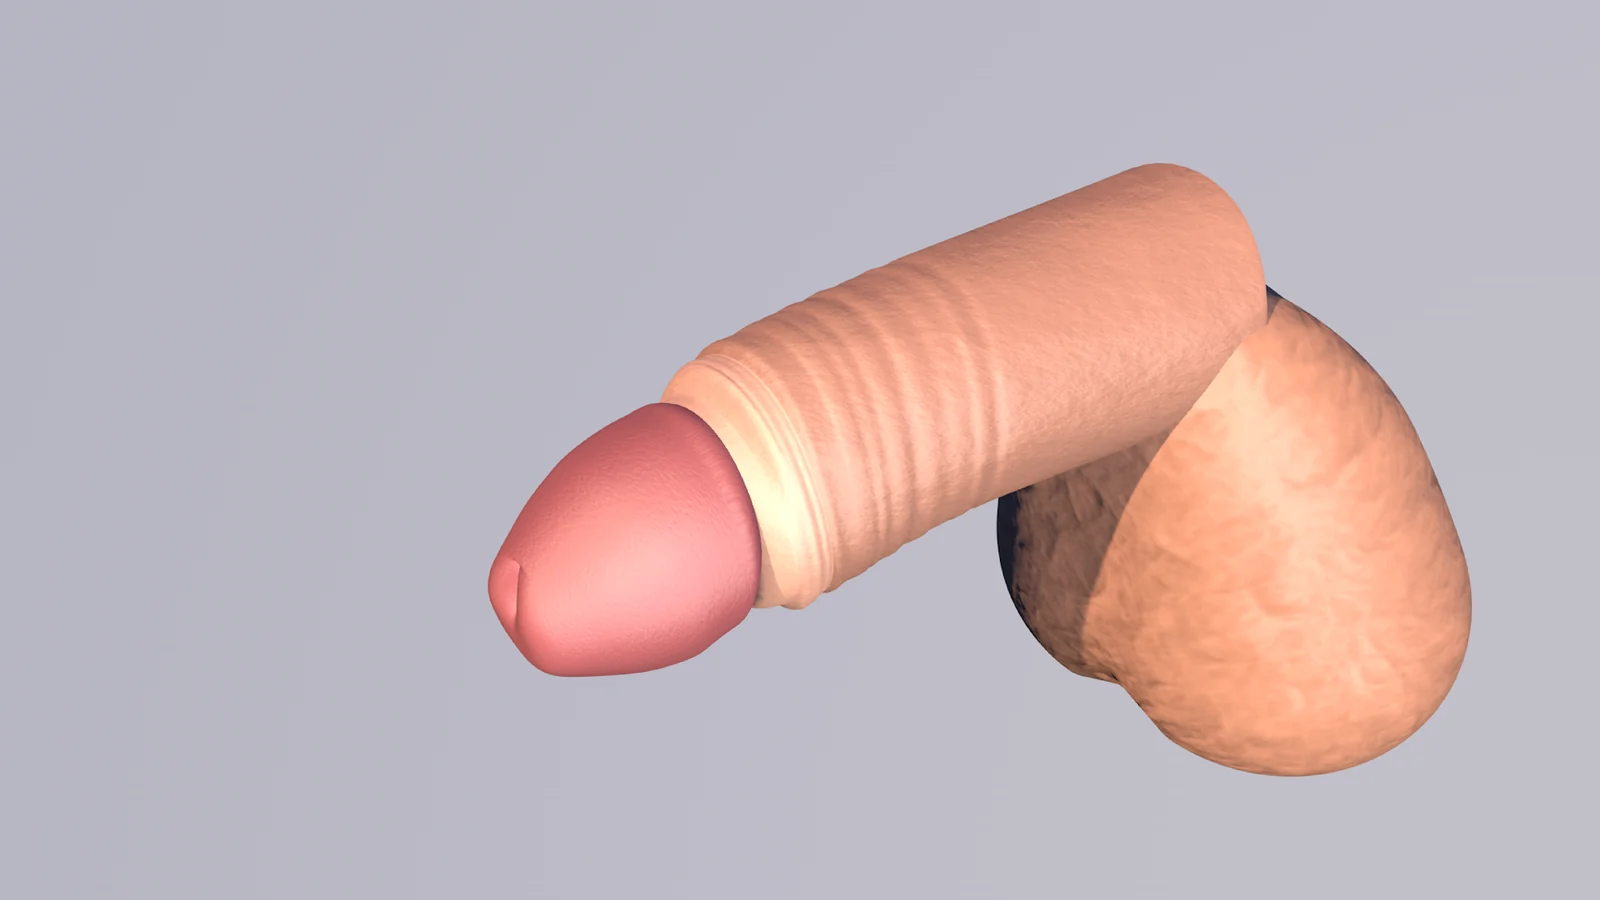
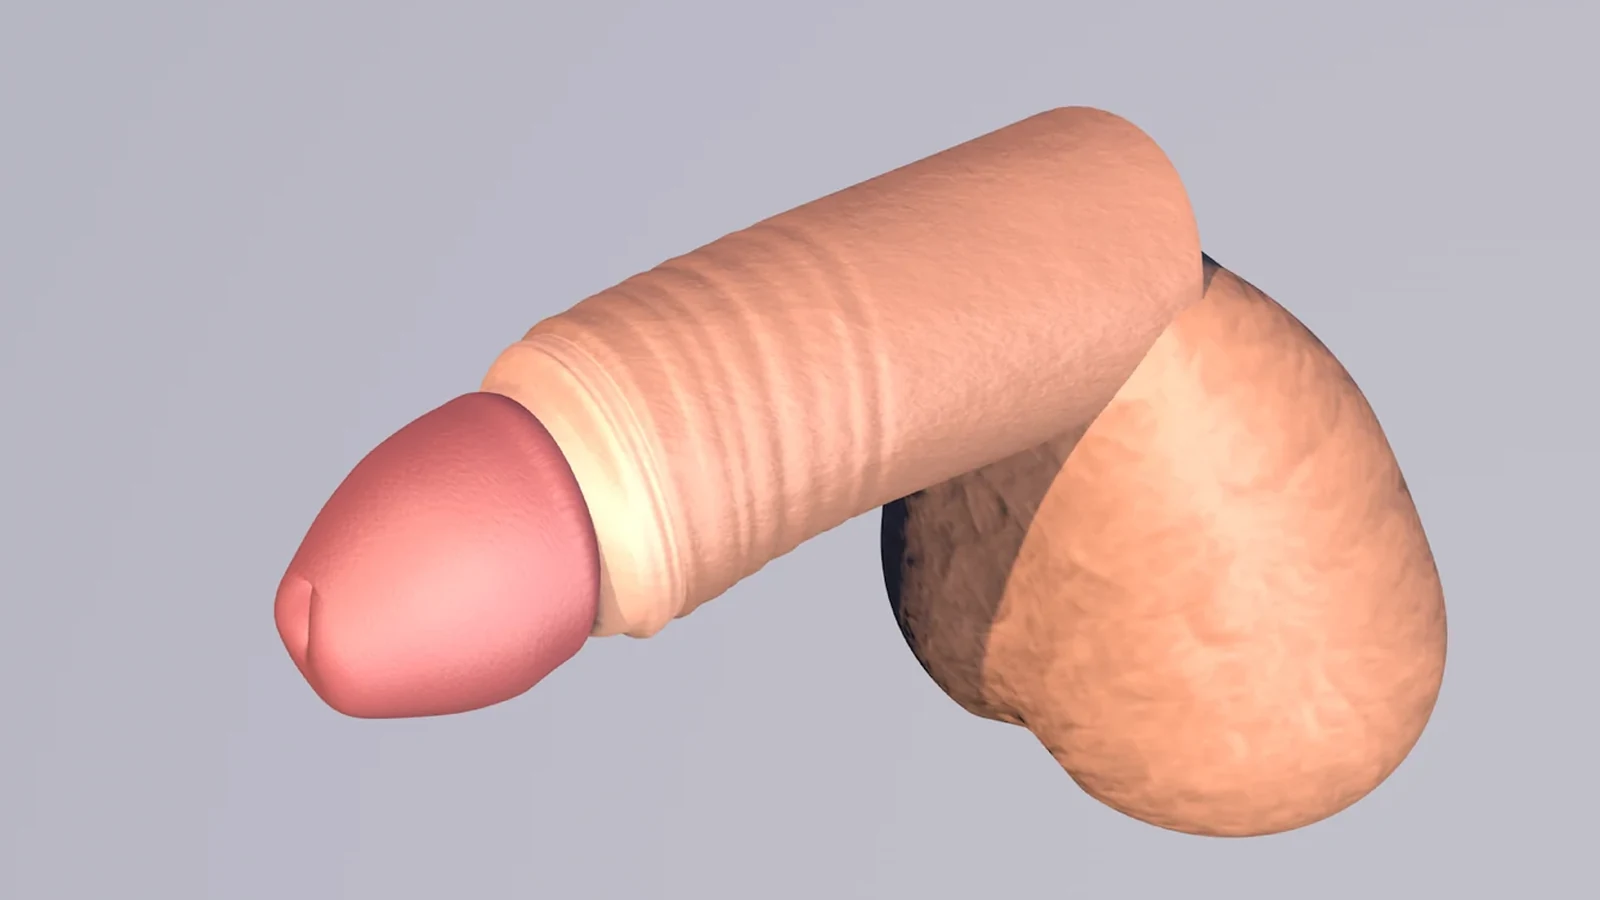
Improve readability and fascia preservation visual

Changed region(s): [[0.1562, 0.0933, 0.9375, 0.9333]]

diff --git a/app/globals.css b/app/globals.css
@@ -530,6 +530,7 @@ img {
 
 .design-medical-image {
   object-fit: cover;
+  object-position: 50% 50%;
 }
 
 .design-code {
@@ -1806,5 +1807,275 @@ footer {
   *::before,
   *::after {
     transition-duration: 0.001ms !important;
+  }
+}
+
+/* Readability pass */
+body {
+  font-size: 17px;
+  line-height: 1.7;
+}
+
+.desktop-nav,
+.header-cta {
+  font-size: 15px;
+}
+
+.hero-kicker,
+.eyebrow {
+  font-size: 13px;
+}
+
+.hero-lead {
+  font-size: 20px;
+}
+
+.button {
+  font-size: 16px;
+}
+
+.privacy-note {
+  font-size: 14px;
+}
+
+.proof-grid span {
+  font-size: 15px;
+}
+
+.facts-grid span,
+.visit-details span {
+  font-size: 12px;
+}
+
+.facts-grid strong {
+  font-size: 23px;
+}
+
+.facts-grid p {
+  font-size: 14px;
+}
+
+.intro-mark small {
+  font-size: 11px;
+}
+
+.intro-copy p {
+  font-size: 16px;
+}
+
+.indication-grid article > span {
+  font-size: 13px;
+}
+
+.indication-grid h3 {
+  font-size: 22px;
+}
+
+.indication-grid p,
+.medical-alert {
+  font-size: 15px;
+}
+
+.section-description {
+  font-size: 18px;
+}
+
+.design-basics span {
+  font-size: 11px;
+}
+
+.design-basics strong {
+  font-size: 19px;
+}
+
+.design-basics p {
+  font-size: 14px;
+}
+
+.design-code {
+  font-size: 12px;
+}
+
+.design-card h3 {
+  font-size: 26px;
+}
+
+.design-card .design-label {
+  font-size: 14px;
+}
+
+.design-card .design-summary {
+  font-size: 15px;
+}
+
+.design-card .recommend-badge {
+  font-size: 10px;
+}
+
+.design-details dt {
+  font-size: 13px;
+}
+
+.design-details dd {
+  font-size: 14px;
+}
+
+.design-note strong {
+  font-size: 12px;
+}
+
+.design-note p {
+  font-size: 14px;
+  line-height: 1.7;
+}
+
+.decision-card h3 {
+  font-size: 22px;
+}
+
+.decision-card p {
+  font-size: 16px;
+}
+
+.preserve-points span {
+  font-size: 13px;
+}
+
+.preserve-points p {
+  font-size: 16px;
+}
+
+.anatomy-badge,
+.treatment-label,
+.anatomy-legend span {
+  font-size: 12px;
+}
+
+.anatomy-copy h3 {
+  font-size: 23px;
+}
+
+.anatomy-copy p {
+  font-size: 15px;
+}
+
+.method-grid span {
+  font-size: 13px;
+}
+
+.method-grid h3,
+.step-copy h3 {
+  font-size: 19px;
+}
+
+.method-grid p {
+  font-size: 14px;
+}
+
+.method-note {
+  font-size: 13px;
+}
+
+.step-copy p {
+  font-size: 15px;
+}
+
+.factor-grid p {
+  font-size: 16px;
+}
+
+.candidate-grid li {
+  font-size: 18px;
+}
+
+.candidate-grid li span,
+.doctor-photo > span {
+  font-size: 13px;
+}
+
+.doctor-copy > p {
+  font-size: 17px;
+}
+
+.doctor-sign span {
+  font-size: 14px;
+}
+
+.text-link {
+  font-size: 15px;
+}
+
+.faq-list summary {
+  font-size: 18px;
+}
+
+.faq-list details > p {
+  font-size: 16px;
+}
+
+.visit-details strong {
+  font-size: 19px;
+}
+
+.visit-details p {
+  font-size: 14px;
+}
+
+.final-cta-inner > p:not(.eyebrow) {
+  font-size: 18px;
+}
+
+.final-cta small {
+  font-size: 13px;
+}
+
+.footer-inner p {
+  font-size: 13px;
+}
+
+.footer-inner span {
+  font-size: 12px;
+}
+
+@media (max-width: 760px) {
+  .header-cta {
+    font-size: 13px;
+  }
+
+  .hero-kicker,
+  .eyebrow {
+    font-size: 12px;
+  }
+
+  .hero-lead {
+    font-size: 17px;
+  }
+
+  .proof-grid span {
+    font-size: 12px;
+  }
+
+  .section-description {
+    font-size: 16px;
+  }
+
+  .design-card h3 {
+    font-size: 23px;
+  }
+
+  .design-card .design-summary {
+    font-size: 14px;
+  }
+
+  .design-card .recommend-badge {
+    font-size: 9px;
+  }
+
+  .design-details dt {
+    font-size: 12px;
+  }
+
+  .faq-list summary {
+    font-size: 16px;
   }
 }

diff --git a/app/page.tsx b/app/page.tsx
@@ -131,7 +131,7 @@ const clinicMethods = [
   {
     number: "05",
     title: "표재근막 보존",
-    copy: "표피층을 정교하게 다루고 진피와 표재근막층은 가능한 보존하는 방향을 우선합니다.",
+    copy: "필요한 범위의 피부와 진피층은 정교하게 절제하고, 그 아래 표재근막층은 가능한 보존하는 방향을 우선합니다.",
   },
 ];
 
@@ -484,15 +484,15 @@ export default function Home() {
             <div className="anatomy-badge">DARTOS FASCIA</div>
             <div className="anatomy-visual">
               <Image
-                src={`${ASSET_BASE}/medical/superficial-fascia-preservation.png`}
-                alt="피부층 아래의 표재근막과 그 안의 미세혈관·신경 조직을 보존하는 원리를 보여주는 단면 의료 도식"
+                src={`${ASSET_BASE}/medical/superficial-fascia-preservation-v2.webp`}
+                alt="피부와 진피는 선택적으로 절제하고 그 아래 표재근막과 미세혈관·신경 조직은 보존하는 원리를 보여주는 단면 의료 도식"
                 fill
                 sizes="(max-width: 760px) 100vw, 55vw"
                 className="fascia-medical-image"
               />
-              <span className="treatment-label">선택적 피부 절제 범위</span>
+              <span className="treatment-label">피부·진피 선택 절제 범위</span>
               <div className="anatomy-legend">
-                <span className="legend-skin">피부·진피층</span>
+                <span className="legend-skin">피부·진피 절제층</span>
                 <span className="legend-fascia">표재근막 보존</span>
                 <span className="legend-vessel">미세혈관·신경망</span>
               </div>
@@ -500,9 +500,9 @@ export default function Home() {
             <div className="anatomy-copy">
               <h3>표재근막 보존 포경수술</h3>
               <p>
-                피부 하부의 표재근막(Dartos fascia)을 무조건 제거하지 않고
-                가능한 보존하여, 미세혈관과 신경 조직에 대한 불필요한 손상을
-                줄이는 수술 원칙입니다.
+                필요한 범위의 피부와 진피층은 깔끔하게 절제하되, 그 아래의
+                표재근막(Dartos fascia)은 가능한 보존하여 미세혈관과 신경
+                조직에 대한 불필요한 손상을 줄이는 수술 원칙입니다.
               </p>
             </div>
           </div>
